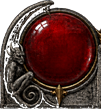
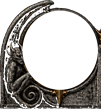
Empty glass, and the liquid drawn in code (v1.9.214)
The orb cradles are cut from the transparent-orbs design; the sphere colour kept under its alpha is lifted before resampling into two liquid files, and DrawOrb blits the liquid from the fill line down under the cradle. The painted-sphere path stays as the fallback.

diff --git a/Source/oracool/hud_art.cpp b/Source/oracool/hud_art.cpp
@@ -110,6 +110,19 @@ constexpr int SilhouetteLuminancePercent = 55;
 ArtAsset PlateArt { "ui\\middle_hud.png" };
 ArtAsset HealthOrbArt { "ui\\health_orb.png" };
 ArtAsset ManaOrbArt { "ui\\mana_orb.png" };
+/**
+ * The LIQUID (user, 2026-09-05: "use the transparent orbs version and draw the liquid in code").
+ *
+ * The fifth HUD's orb cradles come from a master whose sphere interiors are transparent - the glass
+ * is empty and the world shows through it - with the liquid's colour kept in the RGB under that
+ * alpha. tools\CutHudPlate.ps1 lifts that colour into these two files, opaque inside the sphere and
+ * transparent everywhere else, and DrawOrb draws them UNDER the cradle from the fill line down. So
+ * the orb no longer dims a painted sphere: it is empty glass with liquid rising in it.
+ *
+ * Optional. An orb whose liquid file is missing falls back to the painted-sphere path.
+ */
+ArtAsset HealthOrbLiquidArt { "ui\\health_orb_liquid.png" };
+ArtAsset ManaOrbLiquidArt { "ui\\mana_orb_liquid.png" };
 ArtAsset MenuIconsArt { "ui\\menu_icons.png" };
 /**
  * Oracool V1 inventory window. The panel is one flat composition (background, paladin
@@ -563,6 +576,10 @@ void EnsureLoadedAll()
 		LoadPixels(HealthOrbArt);
 	if (!ManaOrbArt.loadAttempted)
 		LoadPixels(ManaOrbArt);
+	if (!HealthOrbLiquidArt.loadAttempted)
+		LoadPixels(HealthOrbLiquidArt);
+	if (!ManaOrbLiquidArt.loadAttempted)
+		LoadPixels(ManaOrbLiquidArt);
 	if (!MenuIconsArt.loadAttempted)
 		LoadPixels(MenuIconsArt);
 	if (!InventoryPanelArt.loadAttempted)
@@ -630,6 +647,10 @@ bool NeedsQuantize()
 	if (!PlateArt.rgba.empty() && !PlateArt.bright)
 		return true;
 	if (!HealthOrbArt.rgba.empty() && !HealthOrbArt.bright)
+		return true;
+	if (!HealthOrbLiquidArt.rgba.empty() && !HealthOrbLiquidArt.bright)
+		return true;
+	if (!ManaOrbLiquidArt.rgba.empty() && !ManaOrbLiquidArt.bright)
 		return true;
 	if (!ManaOrbArt.rgba.empty() && !ManaOrbArt.bright)
 		return true;
@@ -699,6 +720,9 @@ void EnsureQuantized()
 	QuantizeAsset(PlateArt, std::nullopt);
 	QuantizeAsset(HealthOrbArt, Rectangle { GetHealthOrbSphereCenterLocal(), Size { GetOrbSphereRadius(), 0 } });
 	QuantizeAsset(ManaOrbArt, Rectangle { GetManaOrbSphereCenterLocal(), Size { GetOrbSphereRadius(), 0 } });
+	// The liquid is plain art: opaque inside the sphere, nothing outside. No split, no dim.
+	QuantizeAsset(HealthOrbLiquidArt, std::nullopt);
+	QuantizeAsset(ManaOrbLiquidArt, std::nullopt);
 	// Same 50% gold as the plate, so the menu the burger button opens matches the HUD it sits on.
 	//
 	// This sheet is the one place where chrome and content share pixels: each cell is a frame with
@@ -840,7 +864,7 @@ void BlitStripCellScaled(const Surface &out, const Surface &src, SDL_Rect srcCel
 	}
 }
 
-void DrawOrb(const Surface &out, ArtAsset &asset, Point position, Point sphereCenterLocal, int currValue, int maxValue)
+void DrawOrb(const Surface &out, ArtAsset &asset, ArtAsset &liquid, Point position, Point sphereCenterLocal, int currValue, int maxValue)
 {
 	EnsureLoadedAll();
 	if (asset.rgba.empty())
@@ -854,6 +878,21 @@ void DrawOrb(const Surface &out, ArtAsset &asset, Point position, Point sphereCe
 	const int64_t curr = std::clamp<int64_t>(currValue, 0, maxValue > 0 ? maxValue : 0);
 	const int filledRows = (maxValue > 0) ? static_cast<int>(span * curr / maxValue) : 0;
 	const int revealTop = std::clamp(sphereCenterLocal.y + radius - filledRows, 0, asset.height);
+
+	// THE LIQUID (2026-09-05). With the fifth HUD's transparent glass the cradle art has nothing
+	// inside its sphere, so the three-layer painted-sphere routine below has nothing to dim or
+	// reveal. Instead: the liquid, opaque, from the fill line down - then the whole cradle over it,
+	// whose empty glass lets the world show above the line and whose rim sits on the liquid's edge.
+	// Two blits, and the fill is a real level rather than a lit part of a painting.
+	if (liquid.bright && liquid.width == asset.width && liquid.height == asset.height) {
+		if (revealTop < asset.height) {
+			out.BlitFromSkipColorIndexZero(*liquid.bright,
+			    MakeSdlRect(0, revealTop, liquid.width, liquid.height - revealTop),
+			    position + Displacement { 0, revealTop });
+		}
+		out.BlitFromSkipColorIndexZero(*asset.bright, MakeSdlRect(0, 0, asset.width, asset.height), position);
+		return;
+	}
 
 	// 1. The composition around the glass - ornament, rim, mount - always fully opaque. Drawn from
 	//    its own surface rather than from the whole image, so step 2 cannot touch it.
@@ -1407,6 +1446,8 @@ void ResetHudArtCaches()
 	reset(PlateArt);
 	reset(HealthOrbArt);
 	reset(ManaOrbArt);
+	reset(HealthOrbLiquidArt);
+	reset(ManaOrbLiquidArt);
 	reset(MenuIconsArt);
 	reset(InventoryPanelArt);
 	reset(SidePanelArt);
@@ -1901,14 +1942,14 @@ Size GetWaypointIconSize()
 void DrawHealthOrb(const Surface &out, int yOffset)
 {
 	const Player &player = *MyPlayer;
-	DrawOrb(out, HealthOrbArt, GetHealthOrbRect().position + Displacement { 0, yOffset }, GetHealthOrbSphereCenterLocal(),
+	DrawOrb(out, HealthOrbArt, HealthOrbLiquidArt, GetHealthOrbRect().position + Displacement { 0, yOffset }, GetHealthOrbSphereCenterLocal(),
 	    player._pHitPoints >> 6, player._pMaxHP >> 6);
 }
 
 void DrawManaOrb(const Surface &out, int yOffset)
 {
 	const Player &player = *MyPlayer;
-	DrawOrb(out, ManaOrbArt, GetManaOrbRect().position + Displacement { 0, yOffset }, GetManaOrbSphereCenterLocal(),
+	DrawOrb(out, ManaOrbArt, ManaOrbLiquidArt, GetManaOrbRect().position + Displacement { 0, yOffset }, GetManaOrbSphereCenterLocal(),
 	    player._pMana >> 6, player._pMaxMana >> 6);
 }
 

diff --git a/.ProjectDocumentation/02-Development-Reports/2026-09-05 - The Fifth HUD, Orbs and All.md b/.ProjectDocumentation/02-Development-Reports/2026-09-05 - The Fifth HUD, Orbs and All.md
@@ -27,3 +27,13 @@
 ## Look at
 
 The belt holes are 25px against 28px potion sprites; the flask art is narrower than its cell so it should sit inside, but that is a screenshot call. Well openings are 49x48 around the 46px net. The orbs are r 33, down from 44.
+
+## Addendum, v1.9.214 - the liquid
+
+"use the transparent orbs version and draw the liquid in code."
+
+The cutter now reads `transparent-orbs/03-transparent-belt-and-orbs.png`: the same design with the sphere interiors at alpha 0 and their colour still in the RGB. A resampler works premultiplied and would discard that colour, so the cutter lifts it FIRST - alpha forced to 255 inside each sphere's circle, 0 elsewhere - resamples that on its own and cuts it to the orb pieces as `ui\health_orb_liquid.png` / `ui\mana_orb_liquid.png` (opaque sphere, nothing else). The hole finder is restricted to the plate's span, since the empty spheres are alpha-0 runs too.
+
+`DrawOrb` takes the liquid asset: if present and the same size as the cradle, it blits the liquid from the fill line down and the cradle over it; the world shows through the empty glass above the line. Without a liquid file the painted-sphere path (frame / dimmed sphere / bright) still runs. Two new assets in `hud_art.cpp`'s load, requantise, quantize and reset lists.
+
+A mock at 100/55/15% is in the session's scratchpad (`orb_liquid_mock.png`); the in-game look is the user's screenshot.
